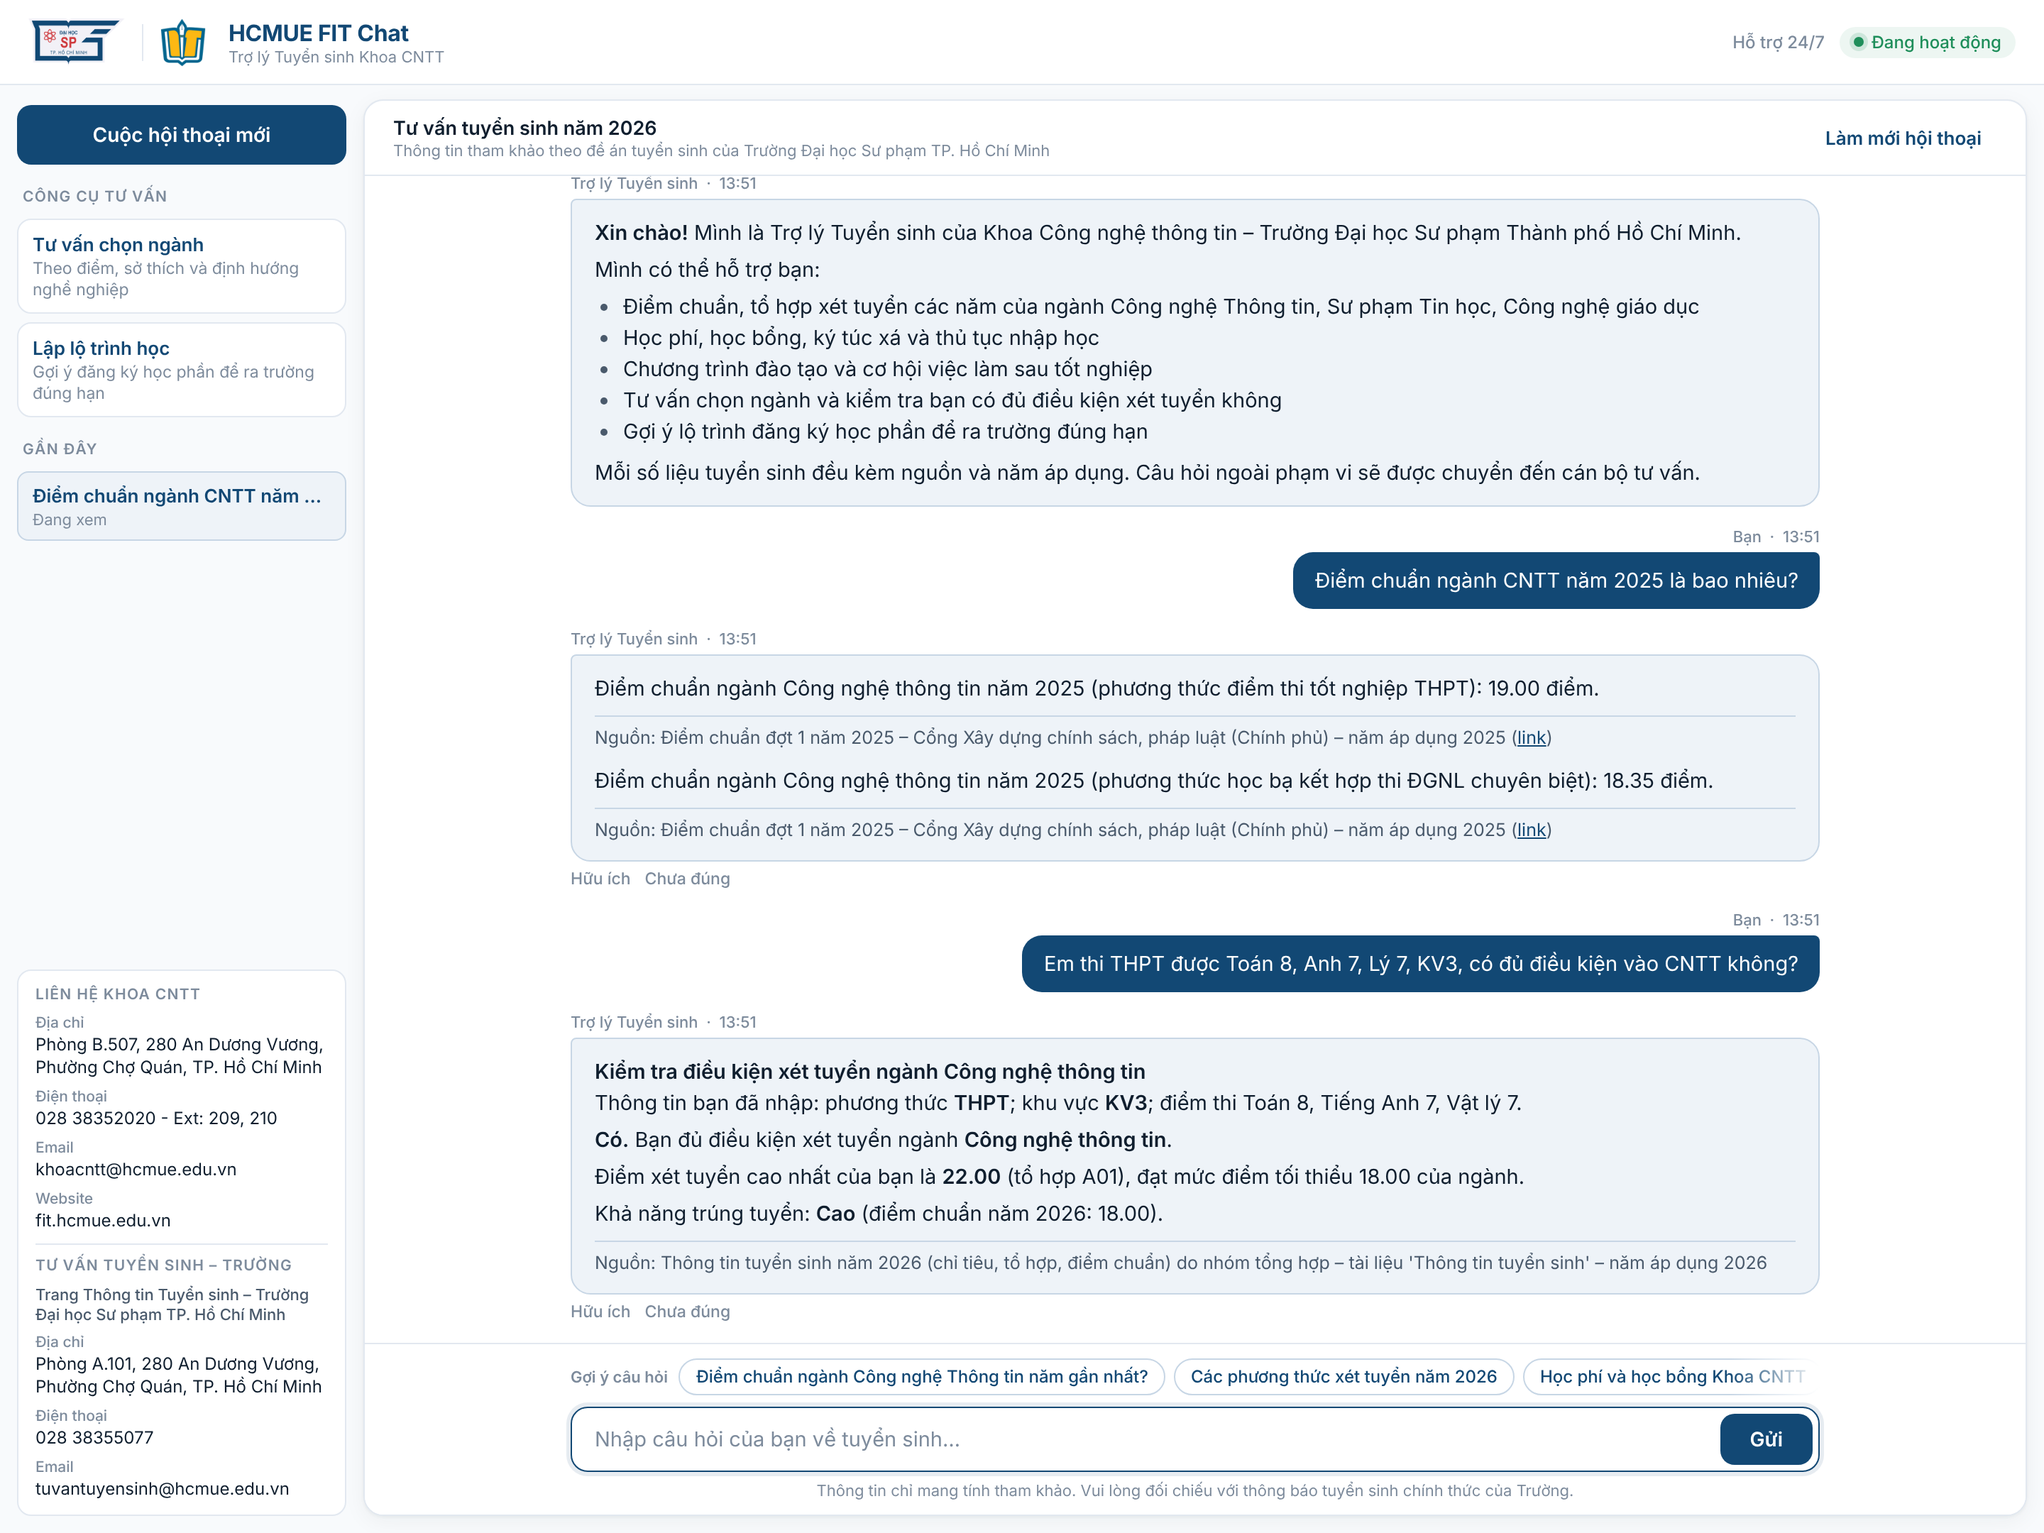
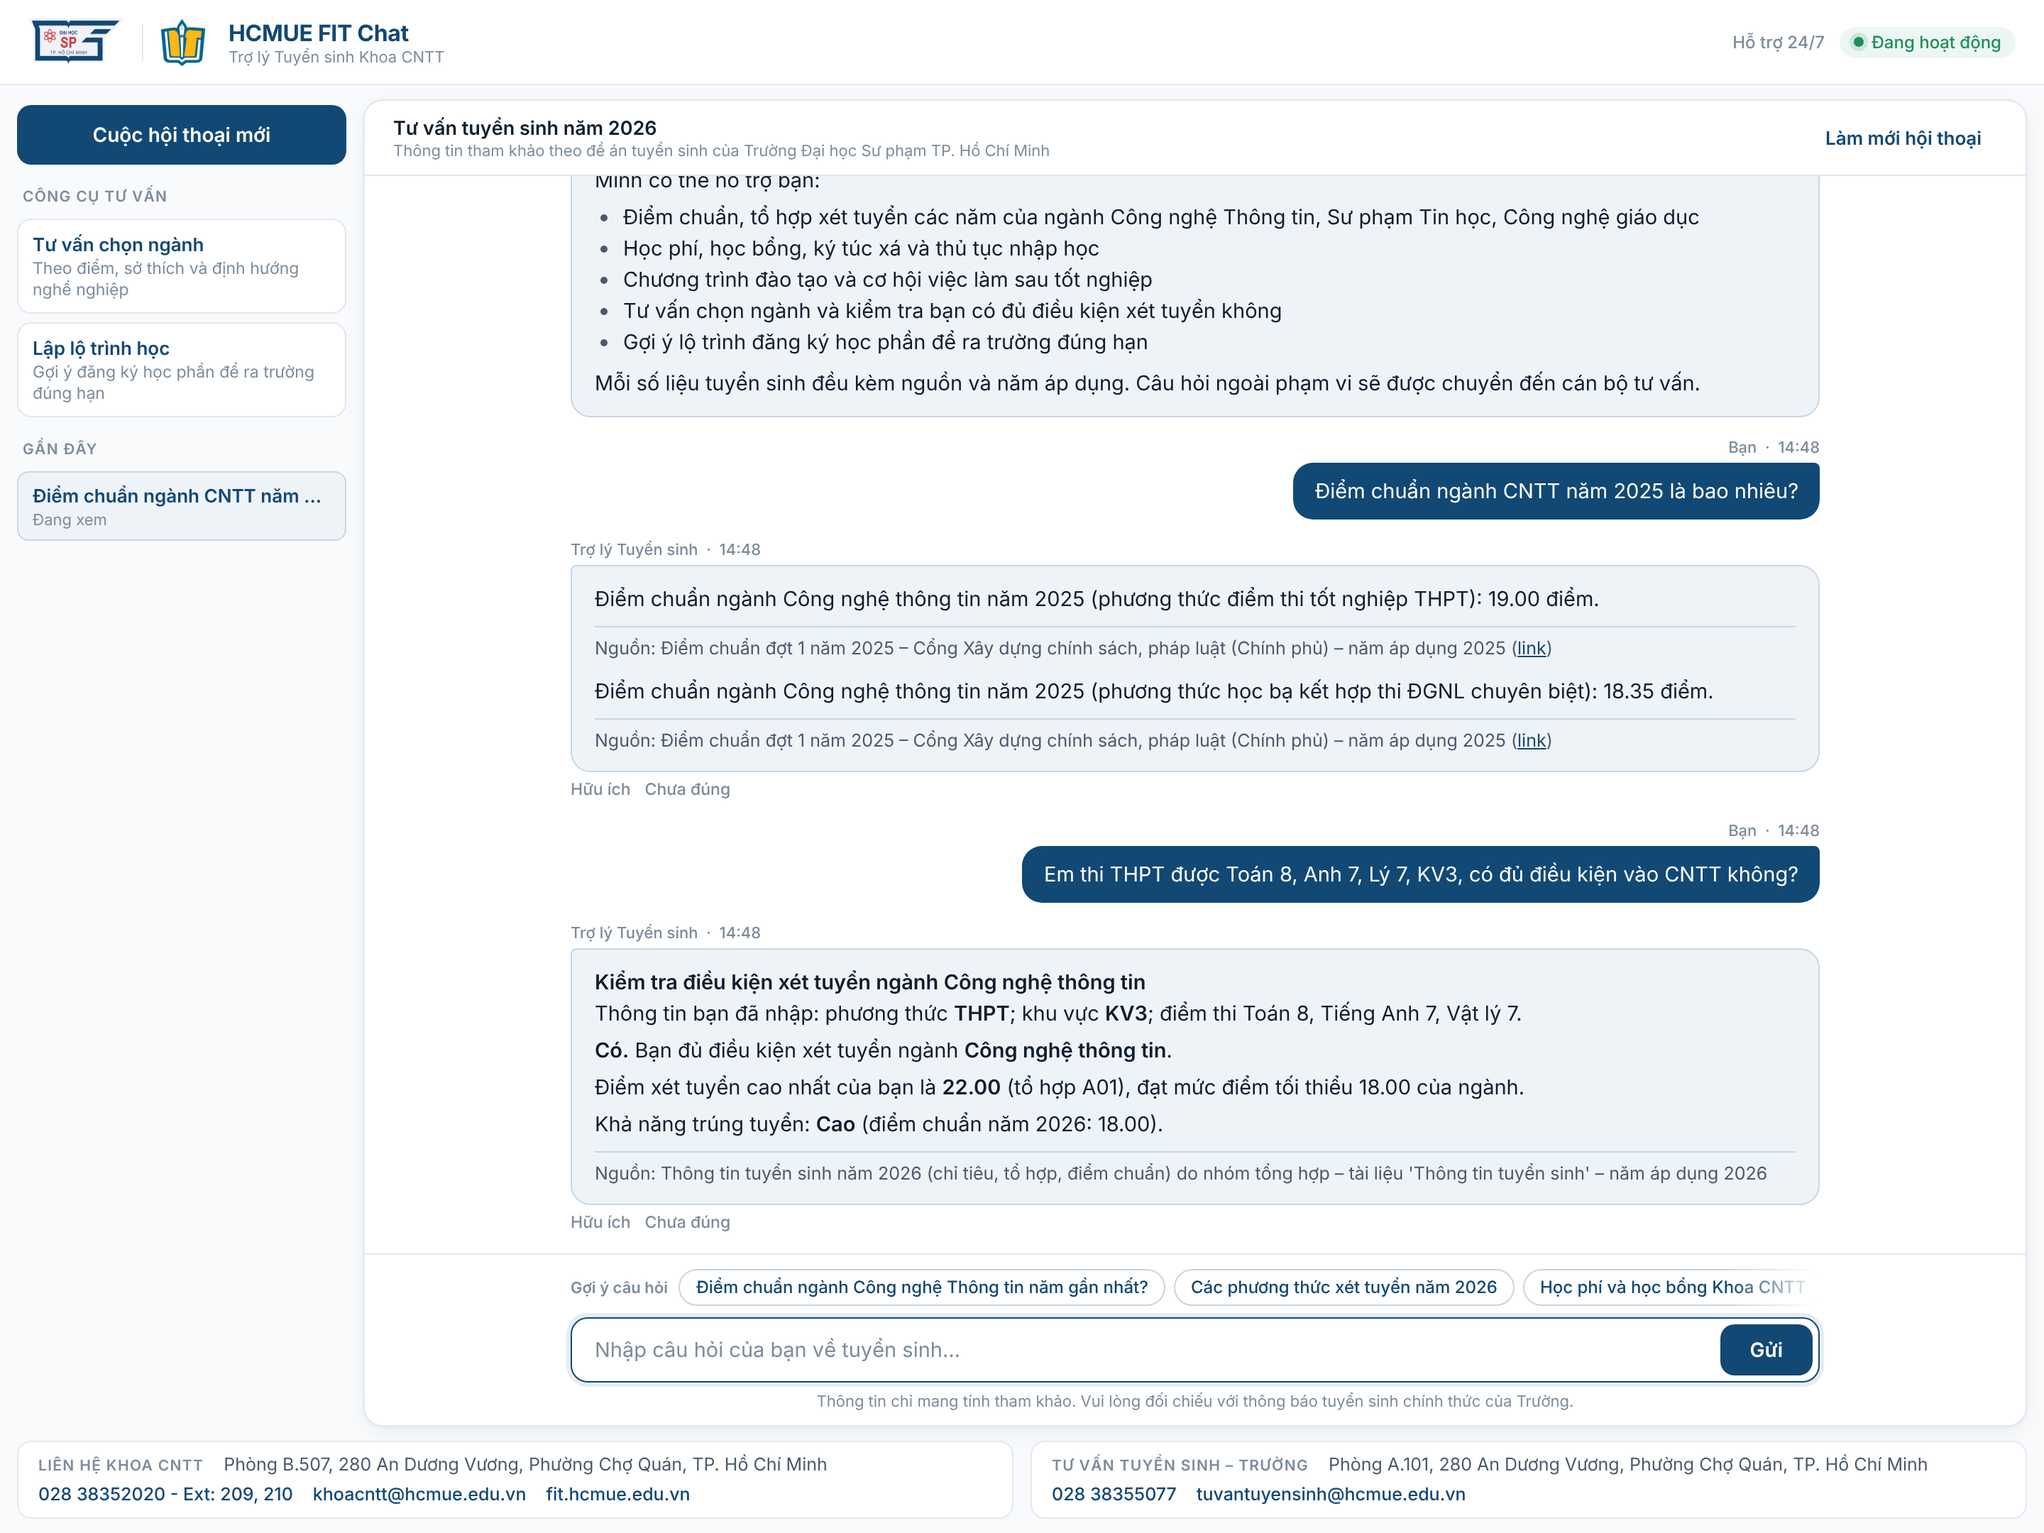
Liên hệ chuyển thành footer 2 thẻ; bỏ khoảng trống ở thanh bên
- Thông tin liên hệ Khoa CNTT và Tư vấn tuyển sinh của Trường chuyển từ thanh bên xuống footer
  (2 thẻ cạnh nhau); điện thoại, email, website bấm được. Trên điện thoại mỗi thẻ chỉ giữ số điện
  thoại và email.
- Thanh bên bỏ khoảng đệm (spacer) gây vùng trống lớn; "Gần đây" chiếm phần còn lại và tự cuộn.
- Trang cố định đúng chiều cao màn hình (header – thân – footer), không tự cuộn hay kéo lộ nền trống.
- Cập nhật kiểm thử, tài liệu C4 và hình docs/hinh/c4.

Claude-Session: https://claude.ai/code/session_018JoVY2yuYEbWbmjCXAkQAX

Changed region(s): [[0.0, 0.0931, 0.9375, 0.9926], [0.0312, 0.6514, 0.1562, 0.8065], [0.7188, 0.1861, 0.8125, 0.2171]]

diff --git a/static/css/style.css b/static/css/style.css
@@ -25,11 +25,14 @@
 
 * { box-sizing: border-box; }
 html, body { height: 100%; margin: 0; }
+html { overscroll-behavior: none; }
 body {
   font-family: var(--font);
   color: var(--text-primary);
   background: var(--surface-sidebar);
   -webkit-font-smoothing: antialiased;
+  display: flex; flex-direction: column; height: 100vh; height: 100dvh; overflow: hidden;
+  overscroll-behavior: none;
 }
 p { margin: 0; }
 button, input, select, textarea { font: inherit; color: inherit; }
@@ -58,7 +61,7 @@ button, input, select, textarea { font: inherit; color: inherit; }
 
 /* ---------------------------------------------------------------- header (60px, một hàng) */
 .app-header {
-  height: var(--header-h); padding: 0 20px; display: flex; align-items: center; justify-content: space-between;
+  flex: none; height: var(--header-h); padding: 0 20px; display: flex; align-items: center; justify-content: space-between;
   gap: 16px; border-bottom: 1px solid var(--border); background: var(--surface);
 }
 .brand { display: flex; align-items: center; gap: 12px; min-width: 0; }
@@ -79,12 +82,12 @@ button, input, select, textarea { font: inherit; color: inherit; }
 .menu-btn { display: none; }
 
 /* ---------------------------------------------------------------- khung chính: thanh bên + vùng chat */
-.app-body { display: flex; height: calc(100vh - var(--header-h)); height: calc(100dvh - var(--header-h)); }
+.app-body { display: flex; flex: 1 1 auto; min-height: 0; }
 
 /* thanh bên 256px */
 .sidebar {
   width: var(--sidebar-w); flex: none; background: var(--surface-sidebar);
-  padding: 14px 12px 12px; display: flex; flex-direction: column; gap: 16px; overflow-y: auto;
+  padding: 14px 12px 8px; display: flex; flex-direction: column; gap: 16px; overflow-y: auto;
 }
 .new-chat { padding: 10px 14px; }
 .side-section { display: flex; flex-direction: column; gap: 6px; }
@@ -94,7 +97,6 @@ button, input, select, textarea { font: inherit; color: inherit; }
 }
 .section-label.tight { padding: 0; }
 .divider-h { border: 0; height: 1px; background: var(--border); margin: 0; flex: none; }
-.spacer { flex: 1 0 0; min-height: 0; }
 
 /* thẻ công cụ tư vấn: nhỏ gọn, bo 10px, hover rõ */
 .tool-btn {
@@ -106,8 +108,9 @@ button, input, select, textarea { font: inherit; color: inherit; }
 .tool-title { font-weight: 600; font-size: 13px; line-height: 18px; color: var(--primary); }
 .tool-sub { font-size: 11.5px; line-height: 15px; color: var(--text-tertiary); }
 
-/* hội thoại gần đây */
-.recent-list { display: flex; flex-direction: column; gap: 2px; }
+/* hội thoại gần đây: chiếm phần còn lại của thanh bên, tự cuộn khi dài (không còn khoảng trống) */
+.recent-section { flex: 1 1 auto; min-height: 0; }
+.recent-list { display: flex; flex-direction: column; gap: 2px; overflow-y: auto; min-height: 0; }
 .empty-note { display: flex; align-items: center; gap: 6px; font-size: 12px; line-height: 16px;
   color: var(--text-tertiary); padding: 2px 4px; }
 .empty-icon { flex: none; color: var(--primary-border); }
@@ -123,22 +126,26 @@ button, input, select, textarea { font: inherit; color: inherit; }
 .conv-item.active { background: var(--primary-subtle); border-color: var(--primary-border); }
 .conv-item.active .conv-title { font-weight: 600; color: var(--primary); }
 
-/* liên hệ */
-.contact {
-  background: var(--surface); border: 1px solid var(--border); border-radius: 10px; padding: 10px 12px;
-  display: flex; flex-direction: column; gap: 6px; flex: none;
+/* footer liên hệ: hai thẻ cạnh nhau ở cuối trang */
+.app-footer {
+  flex: none; display: grid; grid-template-columns: 1fr 1fr; gap: 12px; padding: 0 12px 10px;
 }
-.contact .divider-h { margin: 2px 0; }
-.contact-org { font-size: 11px; line-height: 14px; color: var(--text-secondary); font-weight: 500; }
-.contact-item { display: flex; flex-direction: column; gap: 0; }
-.contact-label { font-weight: 500; font-size: 10.5px; line-height: 14px; color: var(--text-tertiary); }
-.contact-value { font-size: 12px; line-height: 16px; color: var(--text-primary); overflow-wrap: anywhere; }
-.contact-value.muted { color: var(--text-tertiary); }
+.contact-card {
+  background: var(--surface); border: 1px solid var(--border); border-radius: 10px; padding: 7px 14px;
+  min-width: 0; display: flex; flex-wrap: wrap; align-items: baseline; align-content: center; gap: 2px 14px;
+  transition: border-color .15s, box-shadow .15s;
+}
+.contact-card:hover { border-color: var(--primary-border); box-shadow: 0 2px 10px rgba(18, 72, 116, .08); }
+.contact-head { font-weight: 600; font-size: 10.5px; line-height: 18px; letter-spacing: .66px; color: var(--text-tertiary); }
+.contact-line { display: contents; }               /* các mục là phần tử flex: xuống dòng nguyên khối */
+.contact-item { font-size: 12.5px; line-height: 18px; color: var(--text-secondary); white-space: nowrap; }
+.contact-line a { color: var(--primary); text-decoration: none; font-weight: 500; }
+.contact-line a:hover { text-decoration: underline; }
 
 /* vùng chat: "card" trắng chiếm phần còn lại */
 .chat {
   flex: 1 1 0; min-width: 0; display: flex; flex-direction: column; background: var(--surface);
-  margin: 10px 12px 12px 0; border: 1px solid var(--border); border-radius: 14px; box-shadow: var(--shadow-card);
+  margin: 10px 12px 10px 0; border: 1px solid var(--border); border-radius: 14px; box-shadow: var(--shadow-card);
   overflow: hidden;
 }
 .chat-toolbar {
@@ -299,7 +306,6 @@ fieldset.field legend { margin-bottom: 8px; }
 }
 @media (max-width: 900px) {
   :root { --header-h: 56px; }
-  body { display: flex; flex-direction: column; height: 100dvh; }
   .app-header { padding: 0 12px; gap: 8px; }
   .brand { gap: 8px; }
   .logo-hcmue { width: 56px; height: 28px; }
@@ -309,12 +315,18 @@ fieldset.field legend { margin-bottom: 8px; }
   .status { display: none; }
   .menu-btn { display: inline-flex; }
 
-  .app-body { height: auto; min-height: 0; flex: 1; }
   .sidebar { position: fixed; z-index: 20; top: 0; bottom: 0; left: 0; width: min(300px, 86vw);
     transform: translateX(-100%); transition: transform .2s ease; box-shadow: 0 8px 32px rgba(15, 30, 46, .18); }
   body.menu-open .sidebar { transform: none; }
   .backdrop { position: fixed; inset: 0; z-index: 10; background: rgba(15, 30, 46, .35); }
   .chat { margin: 0; border: 0; border-radius: 0; box-shadow: none; }
+  /* điện thoại: footer gọn – mỗi thẻ chỉ giữ số điện thoại và email (bấm để gọi / gửi thư) */
+  .app-footer { gap: 6px; padding: 6px 8px 8px; border-top: 1px solid var(--border); }
+  .contact-card { padding: 5px 9px; border-radius: 8px; display: block; }
+  .contact-head { font-size: 9.5px; line-height: 12px; letter-spacing: .4px; }
+  .contact-line { display: block; }
+  .contact-item { display: block; font-size: 11.5px; line-height: 16px; overflow: hidden; text-overflow: ellipsis; }
+  .contact-item.ci-dia-chi, .contact-item.ci-website, .contact-item.ci-fanpage { display: none; }
   .chat-toolbar { display: none; }
   .messages { padding: 12px; }
   .message-column { gap: 12px; }

diff --git a/templates/index.html b/templates/index.html
@@ -50,31 +50,12 @@
       </button>
     </section>
 
-    <section class="side-section">
+    <section class="side-section recent-section">
       <p class="section-label">GẦN ĐÂY</p>
       <div id="recent" class="recent-list">
         <p class="empty-note"><svg class="empty-icon" width="14" height="14" viewBox="0 0 24 24" aria-hidden="true"><path d="M4 5h16v11H8l-4 4z" fill="none" stroke="currentColor" stroke-width="2" stroke-linejoin="round"/></svg>Chưa có cuộc hội thoại nào</p>
       </div>
     </section>
-
-    <div class="spacer"></div>
-
-    <div class="contact">
-      {% for ten, dong in lien_he %}
-      {% if not loop.first %}<hr class="divider-h">{% endif %}
-      <p class="section-label tight">{{ 'LIÊN HỆ KHOA CNTT' if loop.first else 'TƯ VẤN TUYỂN SINH – TRƯỜNG' }}</p>
-      {% if not loop.first %}<p class="contact-org">{{ ten }}</p>{% endif %}
-      {% for nhan, gia_tri in dong %}
-      <div class="contact-item">
-        <p class="contact-label">{{ nhan }}</p>
-        <p class="contact-value">{{ gia_tri }}</p>
-      </div>
-      {% endfor %}
-      {% else %}
-      <p class="section-label tight">LIÊN HỆ KHOA CNTT</p>
-      <p class="contact-value muted">Đang cập nhật kênh liên hệ chính thức của Khoa.</p>
-      {% endfor %}
-    </div>
 
   </aside>
 
@@ -125,6 +106,28 @@
     </div>
   </main>
 </div>
+
+<footer class="app-footer" aria-label="Thông tin liên hệ">
+  {% for ten, dong in lien_he %}
+  <section class="contact-card" title="{{ ten }}">
+    <p class="contact-head">{{ 'LIÊN HỆ KHOA CNTT' if loop.first else 'TƯ VẤN TUYỂN SINH – TRƯỜNG' }}</p>
+    <p class="contact-line">
+      {%- for nhan, gia_tri in dong %}
+      <span class="contact-item ci-{{ {'Địa chỉ': 'dia-chi', 'Điện thoại': 'dien-thoai', 'Email': 'email', 'Website': 'website', 'Fanpage': 'fanpage'}.get(nhan, 'khac') }}">
+        <span class="sr-only">{{ nhan }}: </span>
+        {%- if nhan == 'Email' -%}<a href="mailto:{{ gia_tri }}">{{ gia_tri }}</a>
+        {%- elif nhan == 'Điện thoại' -%}<a href="tel:{{ gia_tri.split(' - ')[0] | replace(' ', '') }}">{{ gia_tri }}</a>
+        {%- elif nhan in ('Website', 'Fanpage') -%}<a href="{{ gia_tri if gia_tri.startswith('http') else 'https://' ~ gia_tri }}" target="_blank" rel="noopener">{{ gia_tri }}</a>
+        {%- else -%}{{ gia_tri }}{%- endif -%}
+      </span>
+      {%- endfor %}
+    </p>
+  </section>
+  {% else %}
+  <section class="contact-card"><p class="contact-head">LIÊN HỆ KHOA CNTT</p>
+    <p class="contact-line">Đang cập nhật kênh liên hệ chính thức của Khoa.</p></section>
+  {% endfor %}
+</footer>
 
 <dialog id="dlg-tu-van" class="dialog" aria-labelledby="tv-title">
   <form method="dialog" class="dialog-form" id="form-tu-van">

diff --git a/tests/test_web.py b/tests/test_web.py
@@ -38,6 +38,11 @@ def test_trang_chu_theo_figma(client):
     for s in ["Chế độ kiểm tra", 'id="debug"', 'id="tau"', "Ngưỡng τ", "suy diễn"]:   # không còn chế độ kiểm tra
         assert s not in html
     assert html.count("data-close") == 2 and html.count('class="dialog-foot"') == 2      # nút × và chân hộp thoại
+    # liên hệ là footer (2 thẻ) ở cuối trang, không nằm trong thanh bên; điện thoại / email bấm được
+    aside, footer = html[html.index("<aside"):html.index("</aside>")], html[html.index('<footer class="app-footer"'):]
+    assert "LIÊN HỆ KHOA CNTT" not in aside and "spacer" not in aside
+    assert footer.count('class="contact-card"') == 2 and "LIÊN HỆ KHOA CNTT" in footer
+    assert 'href="mailto:khoacntt@hcmue.edu.vn"' in footer and 'href="tel:02838355077"' in footer
 
 
 def test_favicon_la_logo_khoa(client):

diff --git a/docs/C4_CHATBOT.md b/docs/C4_CHATBOT.md
@@ -42,12 +42,13 @@ underthesea mà mô hình được huấn luyện với underthesea, `/api/trang
 | Vùng | Nội dung |
 |---|---|
 | Header (60px, một hàng) | trái: logo Trường + logo Khoa + "HCMUE FIT Chat" (dưới là "Trợ lý Tuyển sinh Khoa CNTT"); phải: "Hỗ trợ 24/7" + nhãn "Đang hoạt động". Favicon là logo Khoa (`static/favicon.ico`, `static/img/favicon-*.png`) |
-| Thanh bên (256px, nền #F8FAFC) | nút chính **Cuộc hội thoại mới** · CÔNG CỤ TƯ VẤN (thẻ nhỏ: tư vấn chọn ngành – C2, lập lộ trình học – C1) · GẦN ĐÂY (hội thoại của trình duyệt này; khi trống hiện dòng chữ nhỏ kèm biểu tượng) · Liên hệ Khoa CNTT và Tư vấn tuyển sinh của Trường |
+| Thanh bên (256px, nền #F8FAFC) | nút chính **Cuộc hội thoại mới** · CÔNG CỤ TƯ VẤN (thẻ nhỏ: tư vấn chọn ngành – C2, lập lộ trình học – C1) · GẦN ĐÂY (hội thoại của trình duyệt này, chiếm phần còn lại của thanh bên và tự cuộn khi dài; khi trống hiện dòng chữ nhỏ kèm biểu tượng) |
+| Footer liên hệ (cuối trang) | hai thẻ **Liên hệ Khoa CNTT** và **Tư vấn tuyển sinh – Trường**: địa chỉ, điện thoại (bấm để gọi), email (bấm để gửi thư), website. Trang cố định đúng chiều cao màn hình (header – thân – footer), không tự cuộn nên không lộ khoảng trống khi kéo; trên điện thoại mỗi thẻ chỉ giữ điện thoại và email |
 | Vùng chat (card trắng, bo 14px, bóng nhẹ) | tin nhắn bot (nền xanh nhạt) / người dùng (nền #124874), dòng **Nguồn … – năm áp dụng …** tách riêng dưới mỗi số liệu, nút Hữu ích / Chưa đúng |
 | Ô nhập (cố định ở đáy card) | câu hỏi gợi ý một hàng ngay trên ô nhập, cuộn ngang mượt (lăn chuột cũng cuộn ngang); chỉ giữ câu đã kiểm thử trả lời được; Enter để gửi |
 | Hộp thoại công cụ tư vấn | rộng 880px (tư vấn chọn ngành, 2 cột) / 960px (lộ trình, bảng học phần 2 cột); phần đầu – thân – chân: nút **Tư vấn / Lập lộ trình** luôn hiện ở chân hộp thoại, không phải cuộn; đóng bằng nút ×, nút Đóng, phím Esc hoặc bấm ra vùng tối bên ngoài |
 | Ngôn ngữ | xưng **mình – bạn**; không hiện thuật ngữ kỹ thuật (ý định, độ tin cậy, mã luật R1–R33, "suy diễn", DXT…). Kết quả C2 nói bằng lời thường: "Điểm xét tuyển" (= DXT), "Điểm xét tuyển cao nhất" (= DXT_best), "So với điểm chuẩn: cao hơn 4.00 điểm"; lộ trình C1 không in phần giả định (đã trình bày trong `docs/C1_LO_TRINH.md`) |
-| Điện thoại (≤ 900px) | header 56px một hàng + nút Menu mở thanh bên dạng ngăn kéo, vùng chat tràn màn hình, chip cuộn ngang |
+| Điện thoại (≤ 900px) | header 56px một hàng + nút Menu mở thanh bên dạng ngăn kéo, vùng chat tràn màn hình, chip cuộn ngang, footer liên hệ 2 thẻ nhỏ |
 
 Giao diện chỉ hiển thị: HTML câu trả lời do `src/web/markdown_lite.py` tạo từ văn bản của engine, mọi
 nội dung người dùng được escape. Hội thoại lưu trong bộ nhớ máy chủ theo `client_id` của trình duyệt.
